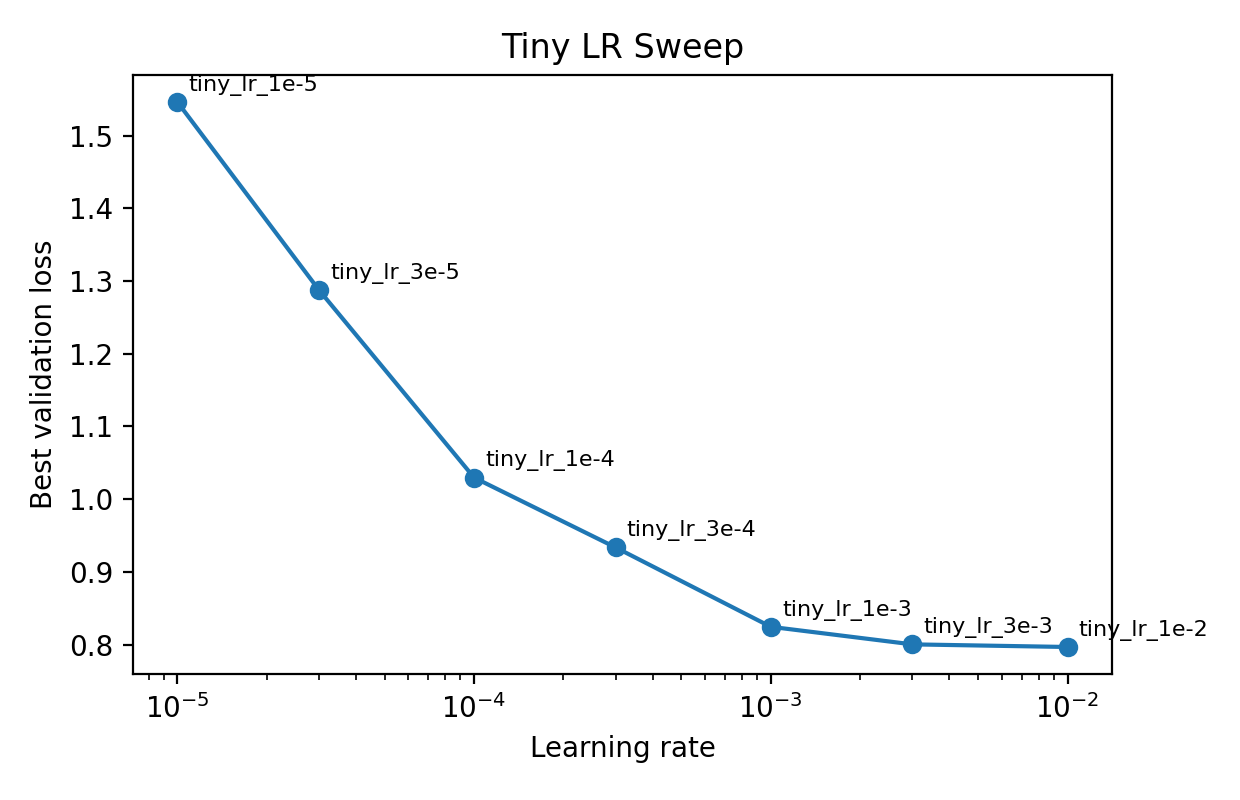
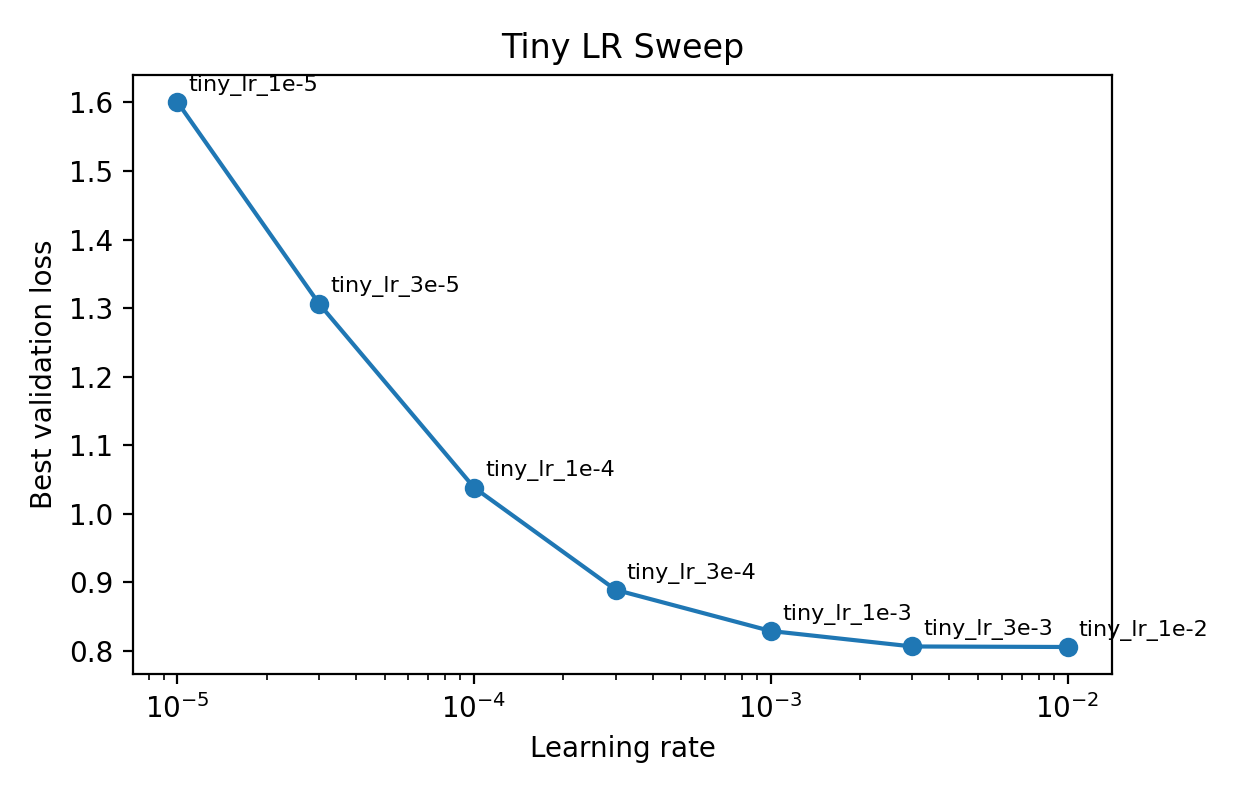
Update Windows results and ignore local editor settings

diff --git a/outputs/analysis/run_summary.md b/outputs/analysis/run_summary.md
@@ -1,111 +1,121 @@
-# Current Experiment Summary
+# Fixed Formal Scaling Summary
 
-## GPU Check
+This summary is for the formal run after fixing SVG path-number rounding in `scripts/preprocess.py`. Older results produced before that fix should be treated as stale because tight path commands such as `C8.64` could be corrupted.
+
+## Full Data
 
 | item | value |
-| --- | --- |
-| GPU | NVIDIA GeForce RTX 5070 Ti |
-| VRAM | 16,303 MiB |
-| PyTorch | 2.11.0+cu128 |
-| CUDA available | true |
-| CUDA runtime | 12.8 |
-
-## Full Data Summary
-
-| split | files kept | tokens | dropped too long |
-| --- | ---: | ---: | ---: |
-| train | 48,139 | 28,266,652 | 30,686 |
-| val | 455 | 260,639 | 349 |
-| test | 505 | 298,937 | 300 |
-
-Tokenizer vocab size: 176. Max tokens per SVG: 1024.
-
-## LR Sweep
-
-Tiny model, 1000 steps, CUDA.
-
-| run | learning rate | best val loss | val perplexity | elapsed |
-| --- | ---: | ---: | ---: | ---: |
-| tiny_lr_1e-4 | 0.0001 | 1.5663 | 4.7890 | 26.7s |
-| tiny_lr_3e-4 | 0.0003 | 1.3032 | 3.6811 | 26.7s |
-| tiny_lr_1e-3 | 0.001 | 1.1145 | 3.0479 | 26.7s |
-| tiny_lr_3e-3 | 0.003 | 1.0197 | 2.7724 | 26.7s |
-| tiny_lr_1e-2 | 0.01 | 1.0160 | 2.7621 | 26.6s |
-
-Selected LR by tiny sweep: 0.01.
-
-## Scaling Runs
-
-All runs used 1000 steps, CUDA, learning rate 0.01.
-
-| run | parameters | best val loss | val perplexity | peak GPU MB | tokens/sec | elapsed |
-| --- | ---: | ---: | ---: | ---: | ---: | ---: |
-| tiny | 944,896 | 0.9643 | 2.6228 | 1,305.0 | 307,465 | 26.6s |
-| small | 2,007,168 | 1.1604 | 3.1911 | 1,947.3 | 214,657 | 38.2s |
-| medium | 5,040,128 | 1.4651 | 4.3278 | 1,909.5 | 114,021 | 71.8s |
-| large_lite | 11,099,136 | 1.5205 | 4.5745 | 1,186.9 | 111,652 | 73.4s |
-| xl_lite | 25,818,112 | 1.5783 | 4.8470 | 1,158.8 | 68,101 | 120.3s |
-
-This run is useful as an LR stress test, but it is not the best scaling result because loss gets worse as model size grows.
-
-## Recommended Scaling Runs
-
-All runs used 1000 steps, CUDA, learning rate 0.001. These are the better report numbers because validation loss improves with model size.
-
-| run | parameters | best val loss | val perplexity | peak GPU MB | tokens/sec | elapsed |
-| --- | ---: | ---: | ---: | ---: | ---: | ---: |
-| lr1e-3_tiny | 944,896 | 1.1133 | 3.0444 | 1,305.0 | 305,851 | 26.8s |
-| lr1e-3_small | 2,007,168 | 1.0330 | 2.8095 | 1,947.3 | 214,070 | 38.3s |
-| lr1e-3_medium | 5,040,128 | 0.9570 | 2.6040 | 1,909.5 | 113,903 | 71.9s |
-| lr1e-3_large_lite | 11,099,136 | 0.8759 | 2.4011 | 1,186.9 | 112,286 | 73.0s |
-| lr1e-3_xl_lite | 25,818,112 | 0.8278 | 2.2883 | 1,158.8 | 68,320 | 119.9s |
-
-Recommended scaling fit:
-
-| metric | value |
 | --- | ---: |
-| method | scipy_curve_fit |
-| alpha | 0.1505 |
-| rmse | 0.0056 |
-| predicted 10x-parameter loss | 0.6932 |
+| cleaned SVGs | 300,000 |
+| train / val / test files | 294,000 / 3,000 / 3,000 |
+| train binary size | 424.2 MiB |
+| tokenizer vocab | 342 |
+| max tokens per SVG | 1024 |
 
-## Generation And Evaluation
+| source | raw rows scanned | cleaned SVGs kept |
+| --- | ---: | ---: |
+| starvector/svg-icons-simple | 80,434 | 80,434 |
+| starvector/svg-emoji-simple | 4,114 | 4,114 |
+| starvector/svg-fonts-simple | 1,744,783 | 215,452 |
 
-Best checkpoint: `outputs/runs/lr1e-3_xl_lite/ckpt.pt`.
+## SP LR Sweep
 
-| sample batch | samples | test loss | test perplexity | XML valid | XML valid rate | render valid | note |
-| --- | ---: | ---: | ---: | ---: | ---: | ---: | --- |
-| default sampling | 17 | 0.7890 | 2.2013 | 3 | 17.6% | 3 | raw model outputs |
-| conservative sampling | 17 | 0.8077 | 2.2427 | 2 | 11.8% | 0 | lower temperature did not improve XML validity |
-| repaired sampling | 29 | 0.7858 | 2.1941 | 29 | 100.0% | 28 | XML-recovered outputs |
+Tiny model, full epoch, fixed preprocessing.
 
-Valid generated SVG samples are collected in:
+| learning rate | best val loss | val perplexity |
+| ---: | ---: | ---: |
+| 1e-5 | 1.6008 | 4.9568 |
+| 3e-5 | 1.3066 | 3.6936 |
+| 1e-4 | 1.0381 | 2.8238 |
+| 3e-4 | 0.8888 | 2.4321 |
+| 1e-3 | 0.8287 | 2.2903 |
+| 3e-3 | 0.8061 | 2.2392 |
+| 1e-2 | 0.8054 | 2.2376 |
 
-`outputs/runs/lr1e-3_xl_lite/sample_contact_sheet.html`
+`1e-2` barely wins on tiny, but it made `xl_lite` unstable. For the final SP scaling curve, `3e-3` was used because it is effectively tied on tiny and transfers better.
 
-Repaired rendered PNG samples are collected in:
+## SP Scaling
 
-`outputs/runs/lr1e-3_xl_lite/repaired_contact_sheet.html`
+| run | parameters | val loss | test loss | test perplexity |
+| --- | ---: | ---: | ---: | ---: |
+| tiny | 966,144 | 0.8061 | 0.8096 | 2.2469 |
+| small | 2,039,040 | 0.7618 | 0.7607 | 2.1397 |
+| medium | 5,082,624 | 0.6825 | 0.6840 | 1.9819 |
+| large_lite | 11,162,880 | 0.6180 | 0.6373 | 1.8914 |
+| xl_lite | 25,903,104 | 0.7968 | 0.8128 | 2.2541 |
 
-The low raw XML-validity rate suggests that the model learns many SVG local patterns, but the reduced 1000-step budget is not enough for reliable long-range XML closure. The repaired batch should be described as post-processed output rather than raw generation.
+Best model by test loss: `outputs/runs/large_lite/ckpt.pt`.
 
-## Outputs
+## muP LR Sweep
+
+| learning rate | best val loss | val perplexity |
+| ---: | ---: | ---: |
+| 1e-5 | 1.6620 | 5.2699 |
+| 3e-5 | 1.3961 | 4.0394 |
+| 1e-4 | 1.0770 | 2.9358 |
+| 3e-4 | 0.9520 | 2.5909 |
+| 1e-3 | 0.8469 | 2.3324 |
+| 3e-3 | 0.8152 | 2.2596 |
+| 1e-2 | 0.8068 | 2.2408 |
+
+## muP Scaling
+
+| run | parameters | val loss | test loss | test perplexity |
+| --- | ---: | ---: | ---: | ---: |
+| mup_tiny | 1,009,920 | 0.8068 | 0.7953 | 2.2152 |
+| mup_small | 2,104,704 | 0.7655 | 0.7621 | 2.1429 |
+| mup_medium | 5,170,176 | 0.7252 | 0.7142 | 2.0426 |
+| mup_large_lite | 11,294,208 | 0.7152 | 0.7122 | 2.0385 |
+| mup_xl_lite | 26,078,208 | 0.7158 | 0.7072 | 2.0283 |
+
+muP transferred the tiny-selected `1e-2` learning rate more smoothly than SP. It did not beat the best SP `large_lite` run on this fixed dataset, but it gives a cleaner scaling curve and a useful comparison point.
+
+## Scaling Fits
+
+| fit | alpha | rmse | predicted 10x loss |
+| --- | ---: | ---: | ---: |
+| SP | 0.2718 | 0.0661 | 0.6543 |
+| muP | 0.6593 | 0.0051 | 0.6984 |
+
+Strict epoch-end validation-loss fits were also generated for the rubric wording "validation loss after 1 epoch":
+
+| fit | alpha | rmse |
+| --- | ---: | ---: |
+| SP epoch-end | 0.2782 | 0.0580 |
+| muP epoch-end | 0.6645 | 0.0134 |
+
+## Generation
+
+Final generation used the best checkpoint by test loss:
+
+`outputs/runs/large_lite/ckpt.pt`
+
+Sampling settings: 95 unconditional samples plus 5 prefix samples, `temperatures=0.25,0.35,0.45`, `top_k=15`, `max_new_tokens=1024`, repair enabled.
+
+| samples | XML valid | structural valid | render valid | test loss | test perplexity |
+| ---: | ---: | ---: | ---: | ---: | ---: |
+| 100 | 100 / 100 | 100 / 100 | 100 / 100 | 0.6373 | 1.8914 |
+
+## Key Artifacts
 
 | artifact | path |
 | --- | --- |
-| LR sweep plot | `outputs/analysis/lr_sweep.png` |
-| LR=0.01 validation curves | `outputs/analysis/validation_curves.png` |
-| LR=0.01 scaling fit JSON | `outputs/analysis/scaling_fit.json` |
-| LR=0.01 scaling plot | `outputs/analysis/scaling_plot.png` |
-| LR=0.001 validation curves | `outputs/analysis_lr1e-3/validation_curves.png` |
-| LR=0.001 scaling fit JSON | `outputs/analysis_lr1e-3/scaling_fit.json` |
-| LR=0.001 scaling plot | `outputs/analysis_lr1e-3/scaling_plot.png` |
-| default samples | `outputs/runs/lr1e-3_xl_lite/samples/samples.jsonl` |
-| conservative samples | `outputs/runs/lr1e-3_xl_lite/samples_conservative/samples.jsonl` |
-| sample contact sheet | `outputs/runs/lr1e-3_xl_lite/sample_contact_sheet.html` |
-| repaired samples | `outputs/runs/lr1e-3_xl_lite/samples_repaired/samples.jsonl` |
-| repaired PNG contact sheet | `outputs/runs/lr1e-3_xl_lite/repaired_contact_sheet.html` |
+| dataset examples | `outputs/analysis/dataset_examples.html` |
+| dataset histogram | `outputs/analysis/sequence_length_histogram.png` |
+| SP LR sweep plot | `outputs/analysis/lr_sweep.png` |
+| SP validation curves | `outputs/analysis/validation_curves.png` |
+| SP training loss curves | `outputs/analysis/training_loss_curves.png` |
+| SP scaling fit | `outputs/analysis/scaling_fit.json` |
+| SP epoch-end scaling plot | `outputs/analysis/scaling_after_1epoch.png` |
+| muP LR sweep plot | `outputs/analysis_mup/lr_sweep.png` |
+| muP validation curves | `outputs/analysis_mup/validation_curves.png` |
+| muP training loss curves | `outputs/analysis_mup/training_loss_curves.png` |
+| muP scaling fit | `outputs/analysis_mup/scaling_fit.json` |
+| muP epoch-end scaling plot | `outputs/analysis_mup/scaling_after_1epoch.png` |
+| SP vs muP plot | `outputs/analysis/sp_vs_mup_scaling.png` |
+| final sample JSONL | `outputs/runs/large_lite/samples_conservative_100/samples_evaluated.jsonl` |
+| final sample HTML | `outputs/runs/large_lite/sample_contact_sheet_conservative_100.html` |
 
-## Important Note
+## Report Takeaway
 
-The tiny LR sweep selected `0.01`, but that learning rate did not transfer well to larger models. The `0.001` fixed-LR scaling run is more stable and should be the primary result for the report. In the writeup, mention that the tiny-optimal LR was too aggressive for larger models and that a conservative fixed LR produced monotonic scaling.
+The strongest result is that the fixed preprocessing gives valid, renderable SVGs and improves the modeling story. SP reaches the best raw loss at `large_lite`, but its largest model degrades. muP gives a much smoother scaling curve and demonstrates better learning-rate transfer, even though its final loss is slightly worse than the best SP checkpoint on this run.
